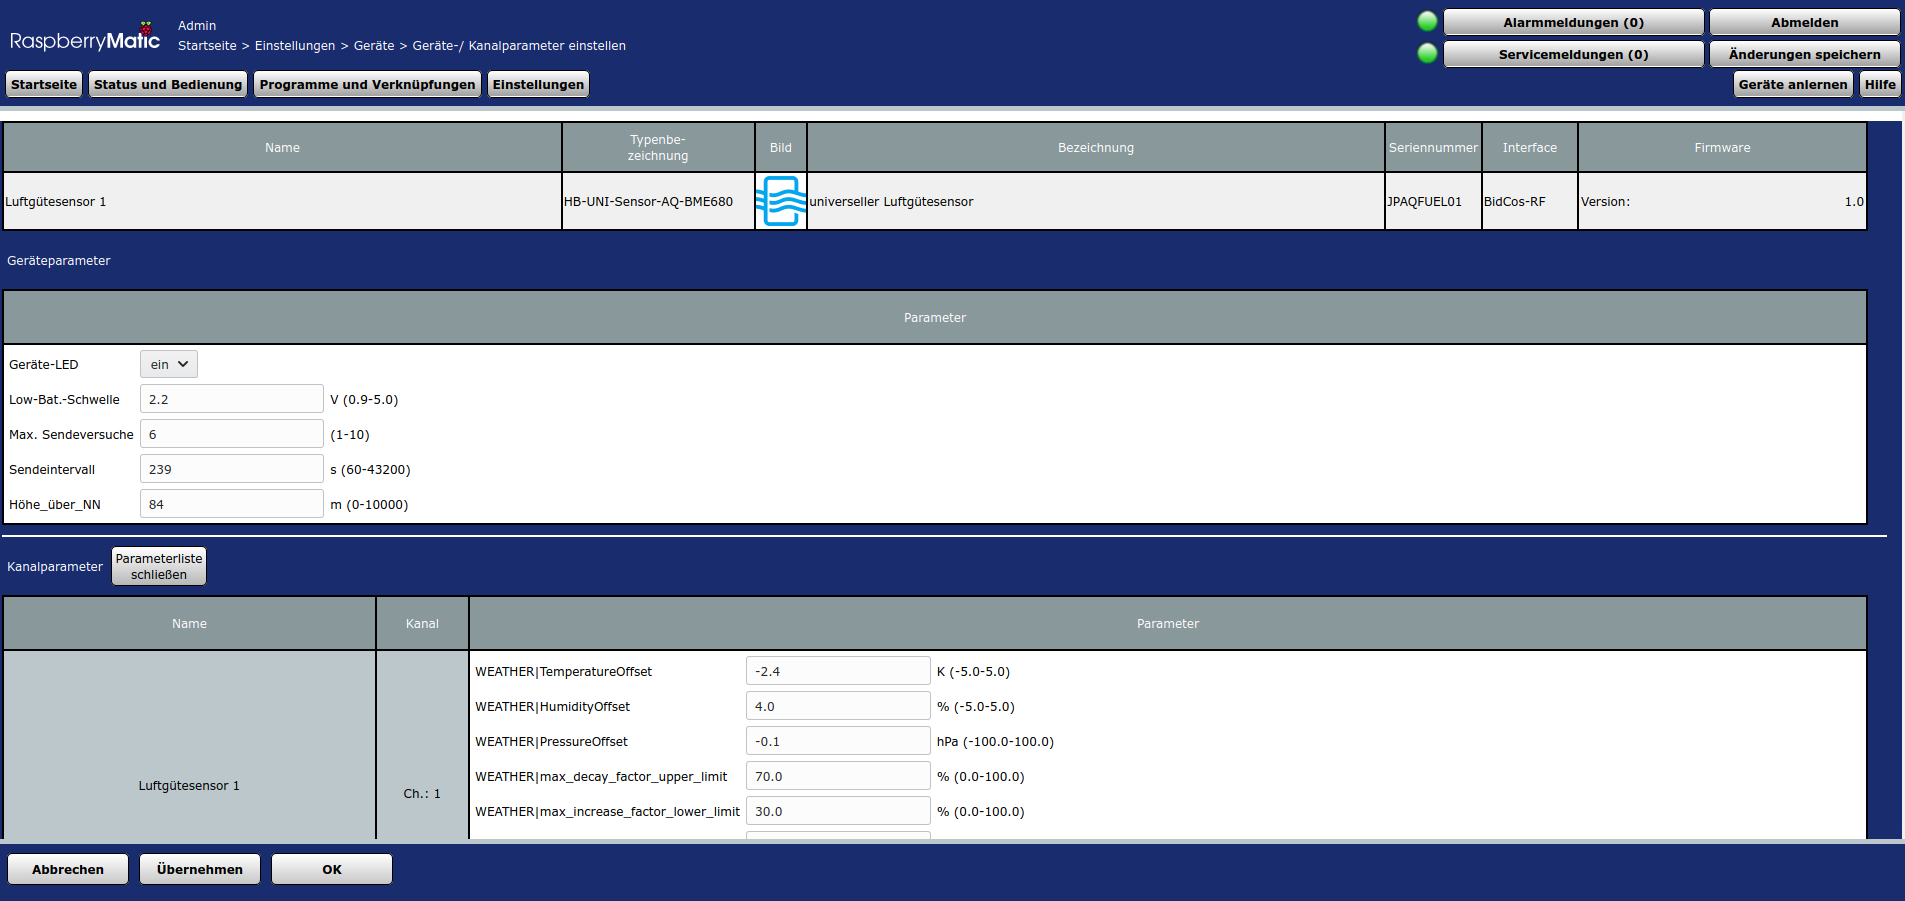
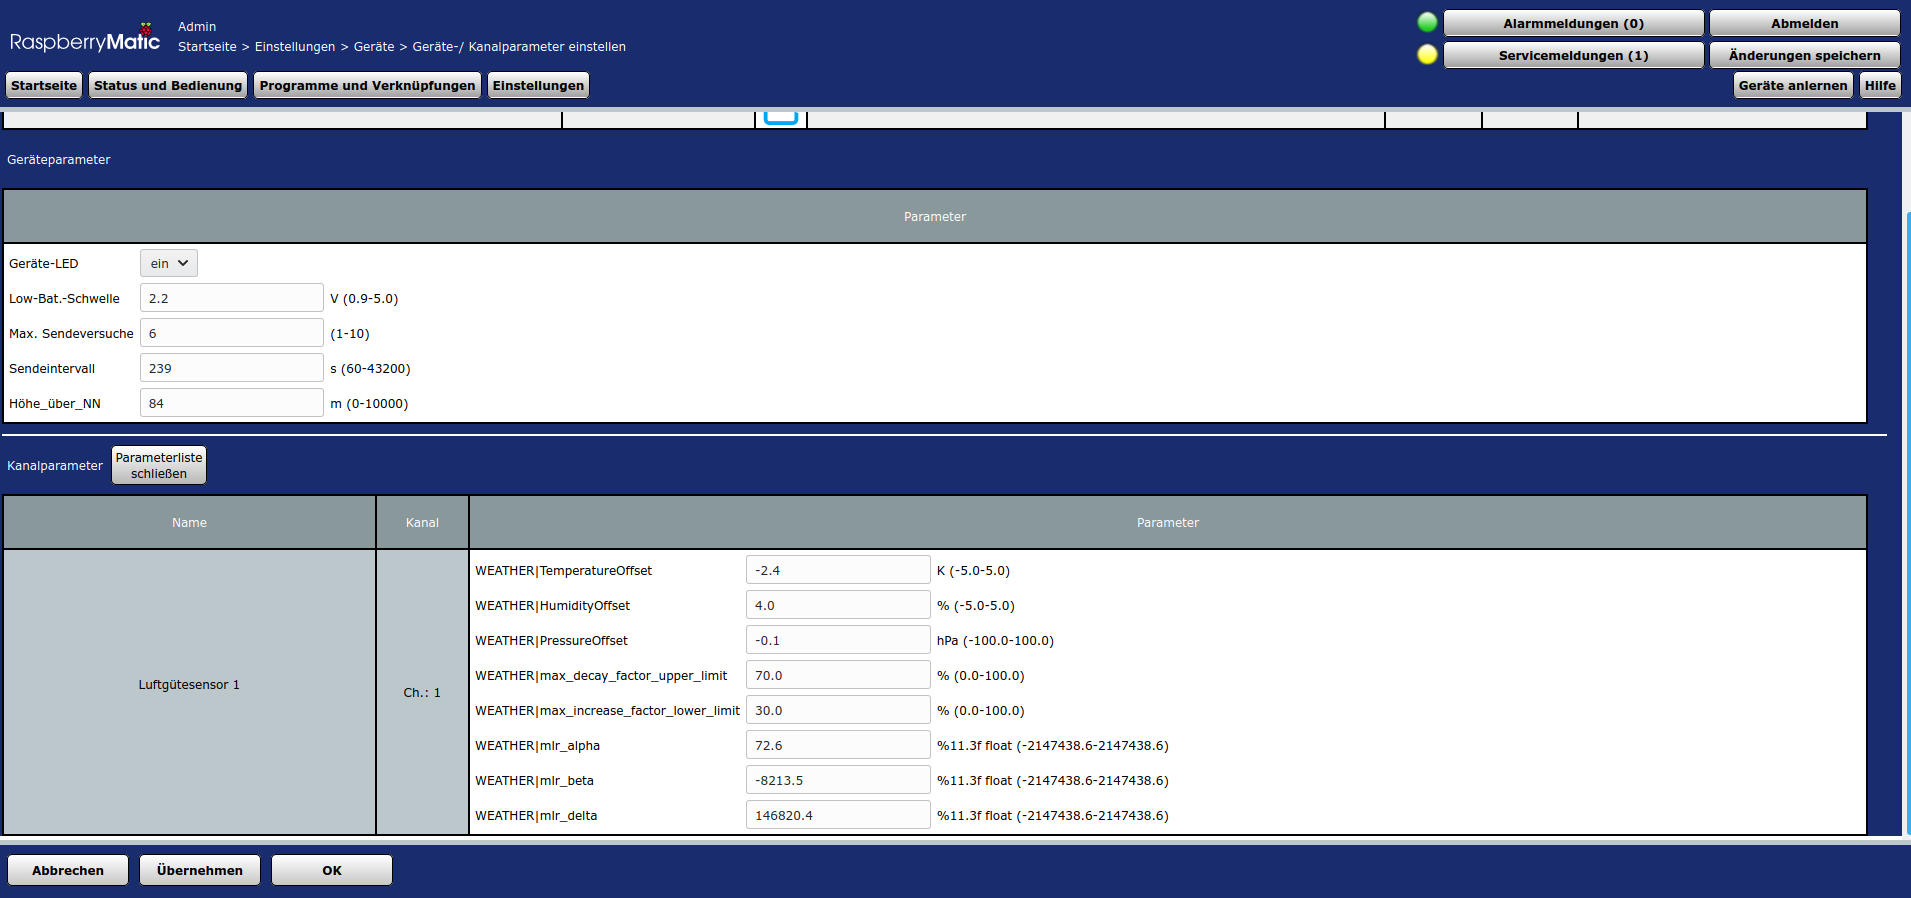
documentation update

diff --git a/AsksinPP_developments/sketches/HB-UNI-Sensor1-AQ-BME680/README.md b/AsksinPP_developments/sketches/HB-UNI-Sensor1-AQ-BME680/README.md
@@ -16,6 +16,10 @@
 - Ausgabe des Luftgütegrads AQ_LEVEL: normierter BME680 Gaswiderstand 0..100% (ohne Kompensation der Einflüsse von Temperatur und absoluter Luftfeuchte auf die gemessene Luftgüte)
 - Ausgabe der logarithmischen Luftqualität AQ_LOG10: logarithmierte normierte und kompensierte Luftqualität 0.0..4.0 (mit Kompensation der Einflüsse von Temperatur und absoluter Luftfeuchte auf die gemessene Luftqualität)
 	+ die logarithmischen Luftqualität AQ_LOG10 korreliert in der Regel gut mit dem CO2 Gehalt der Luft
+	+ Formeln zur Berechnung von AQ_LOG10:
+
+![pic](Multiple_Linear_Regression/AQ_LOG10_formulas.png)
+
 - Autokalibrierung für den Luftgütegrad und die logarithmische Luftqualität: Zur Kalibrierung muss der Sensor nur:  
 
 	+ ca. 15 min schlechter Luft, z.B. einem mit Schnaps getränkten Papiertaschentuch ausgesetzt werden
